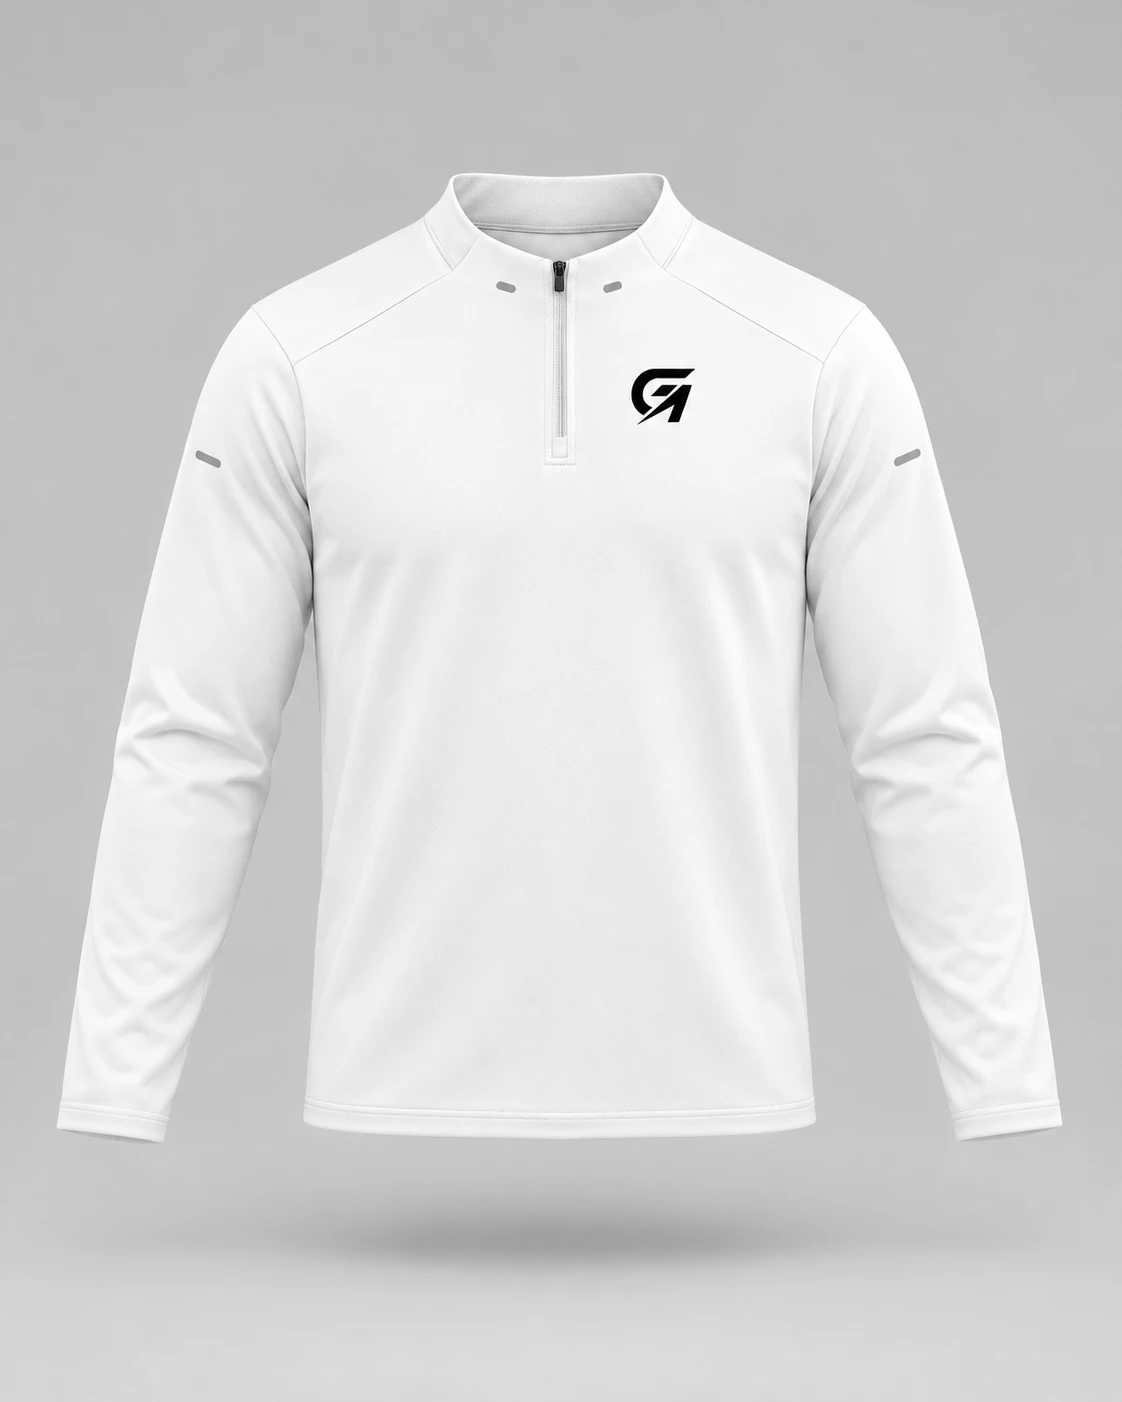
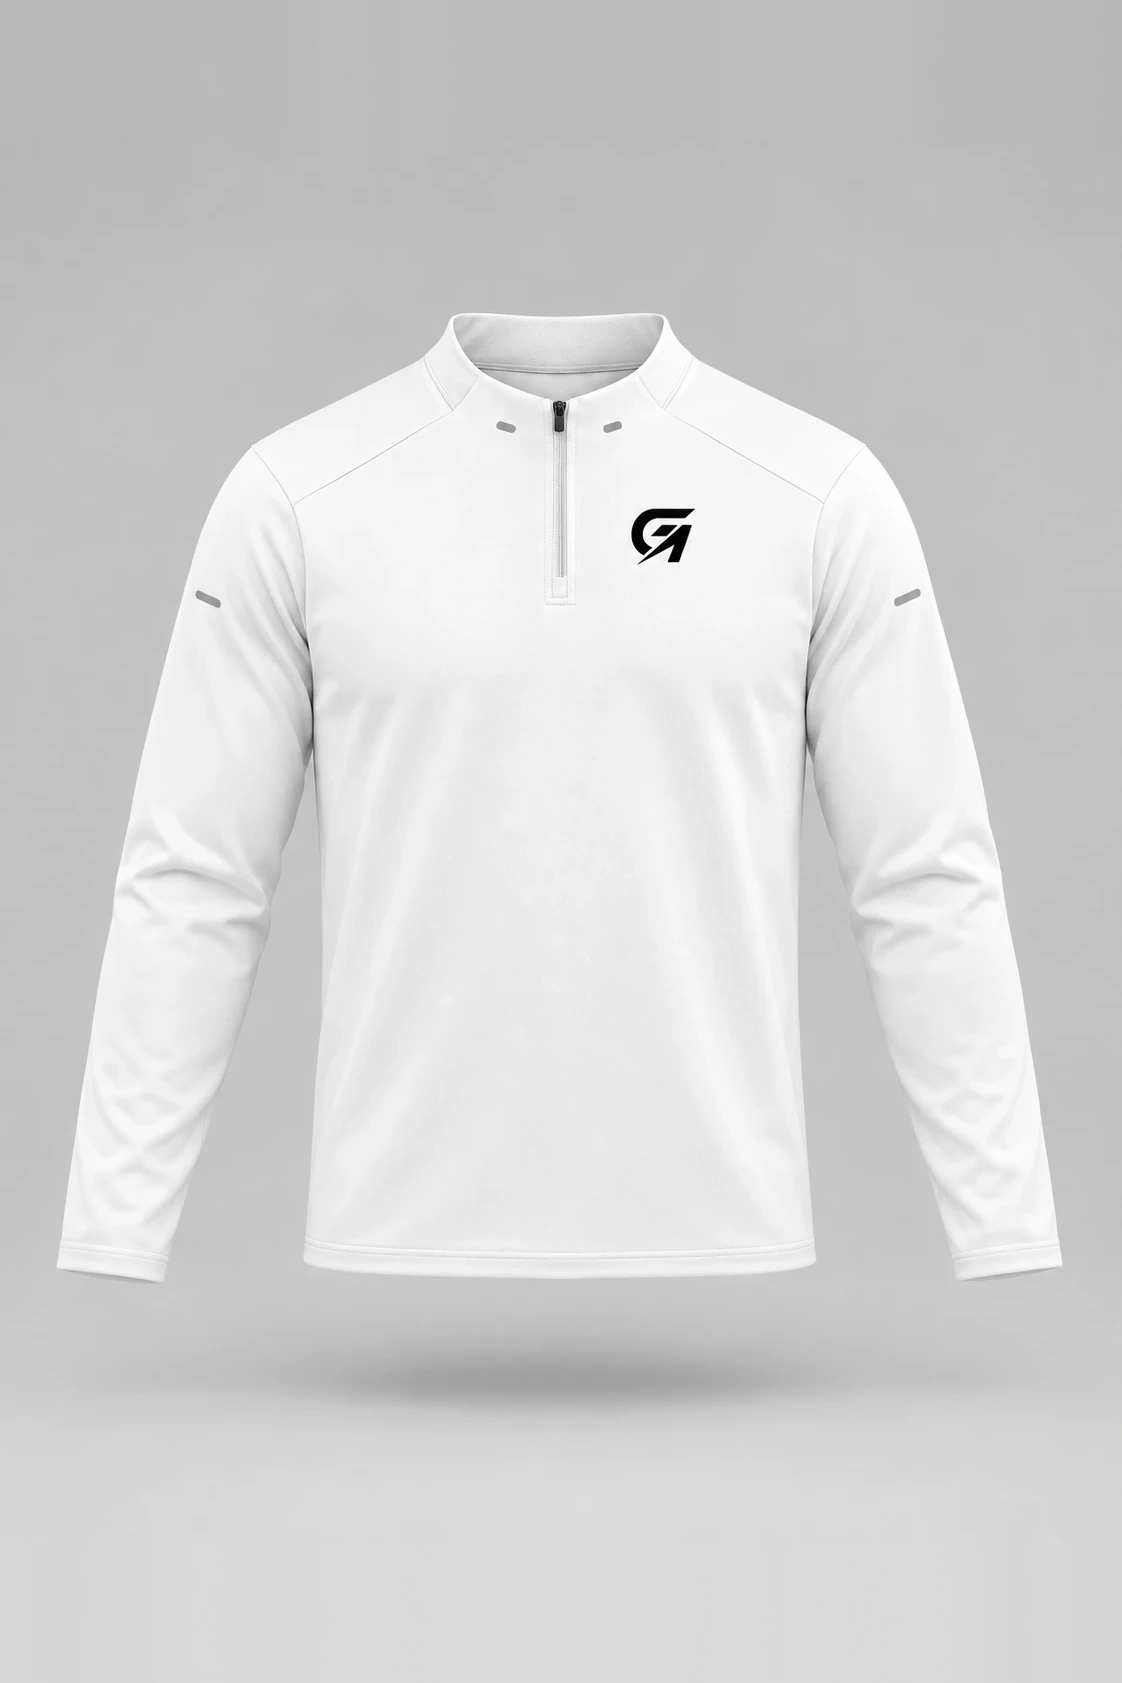
Core Quarter Zip White front: backdrop extended to the 2:3 frame

diff --git a/src/lib/product-image.ts b/src/lib/product-image.ts
@@ -51,7 +51,7 @@ export function catalogImageSrc(src: string): string {
     "/products/tempo-training-tee-white-catalog-product-front-20261026.webp": "smallest-20261026",
     // Core Quarter Zip: front mark became the GA monogram crest the day it launched.
     "/products/goal-core-quarter-zip-black-catalog-product-front-20261026.webp": "owner-front-20261026",
-    "/products/goal-core-quarter-zip-white-catalog-product-front-20261026.webp": "owner-front-20261026",
+    "/products/goal-core-quarter-zip-white-catalog-product-front-20261026.webp": "owner-front-2x3-20261026",
     "/products/goal-core-quarter-zip-dark-gray-catalog-product-front-20261026.webp": "owner-front-20261026",
     "/products/goal-heritage-hoodie-navy-catalog-product-front-20261022.webp": "navy-front-photo-20261022",
     "/products/goal-heritage-hoodie-bone-catalog-product-front-20261022.webp": "bone-front-photo-v2-20261022",

diff --git a/designs/63_core-quarter-zip-tapstitch-2026-10-26/README.md b/designs/63_core-quarter-zip-tapstitch-2026-10-26/README.md
@@ -132,3 +132,8 @@ used as sent) replaced the mockup at
 `public/products/goal-core-quarter-zip-dark-gray-catalog-product-front-20261026.webp`
 (cache revision `owner-front-20261026`). All three colours now lead with
 the owner's product shots. Nothing else changed.
+
+Later the same day the White front was brought to the 2:3 frame
+(`scripts/frame-model-photo-2x3.py`: 1122 x 1402 to 1122 x 1683, its own
+backdrop extended above and below) because the squarer file showed bands
+top and bottom in the gallery; cache revision `owner-front-2x3-20261026`.
